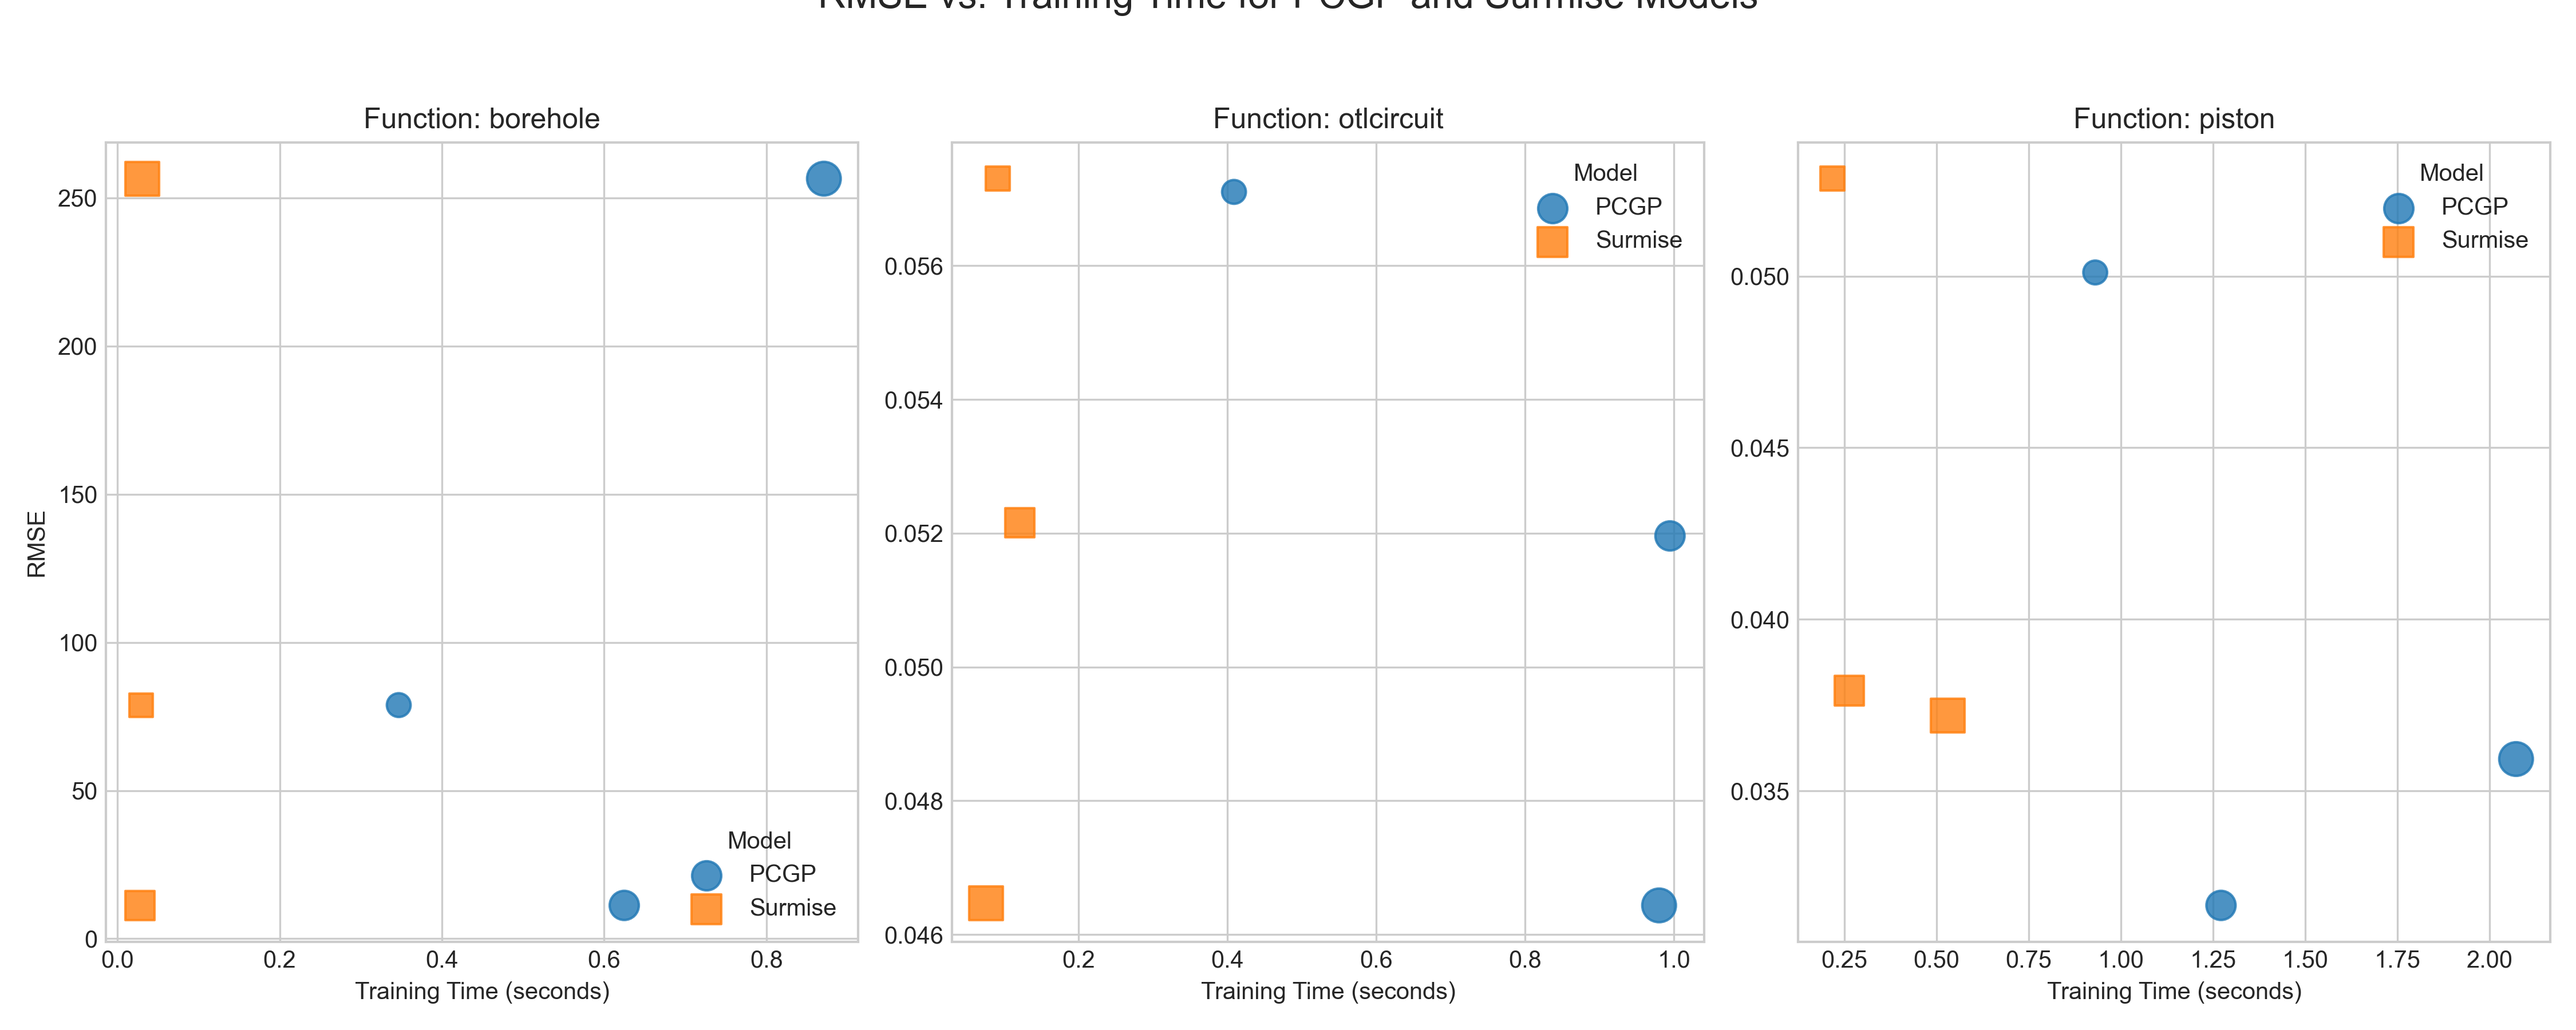
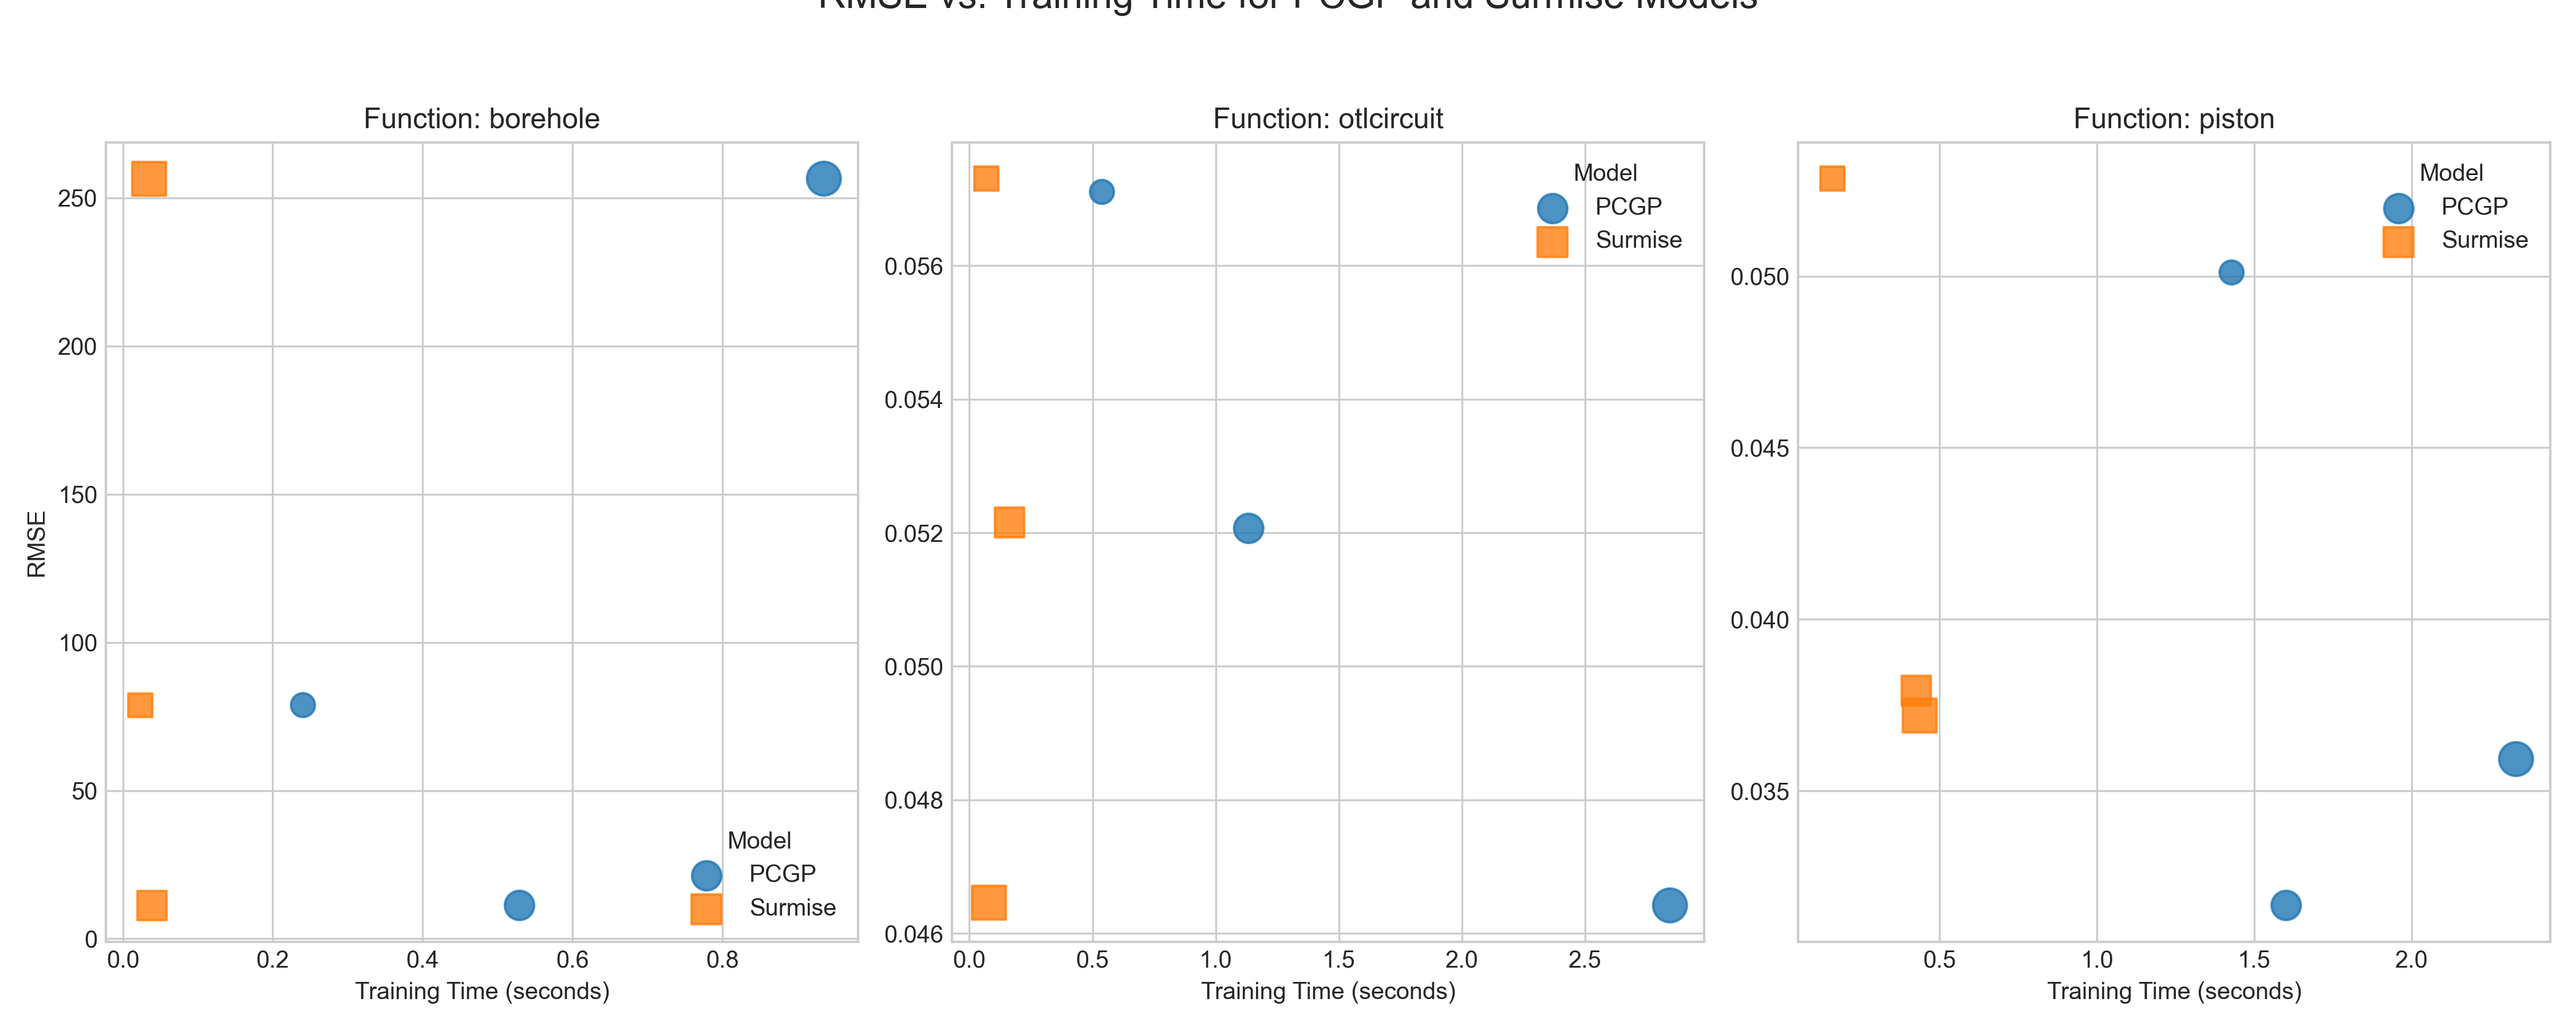
cache re-computations

diff --git a/PCGP_Model/PCGP_MODEL/core.py b/PCGP_Model/PCGP_MODEL/core.py
@@ -11,6 +11,8 @@ class PrincipalComponentGaussianProcessModel:
     This model combines Principal Component Analysis (PCA) with Gaussian Processes (GPs)
     to model high-dimensional outputs. PCA is used to reduce the dimensionality of the
     output space, and then individual GPs are trained on the principal component weights.
+    
+    Optimized version with matrix caching to prevent recomputation of expensive operations.
     """
     def __init__(self, n_components=9, input_dim=12, output_dim=28):
         """
@@ -38,6 +40,39 @@ class PrincipalComponentGaussianProcessModel:
         self.rho = np.ones((n_components, input_dim)) * 0.1
         self.lambda_w = np.ones(n_components) * 1.0
         self.noise_var = 1e-3
+        
+        # store matrices
+        self._stored_kernels = [None] * n_components  
+        self._stored_cholesky = [None] * n_components 
+        self._stored_sigma = [None] * n_components    
+        self._last_hyperparams = None  
+        
+    def _hyperparams_changed(self, rho_flattened, lambda_w, noise_var):
+        """Check if hyperparameters have changed since last computation."""
+        current_params = (tuple(rho_flattened), tuple(lambda_w), noise_var)
+        if self._last_hyperparams is None or self._last_hyperparams != current_params:
+            self._last_hyperparams = current_params
+            return True
+        return False
+    
+    def _compute_and_store_matrices(self):
+        """Compute and store all kernel matrices and Cholesky decompositions."""
+        n = self.X_train_std.shape[0]
+        X_train_tf = tf.convert_to_tensor(self.X_train_std, dtype=tf.float64)
+        
+        for k in range(self.n_components):
+            variance = 1.0 / self.lambda_w[k]
+            rho = self.rho[k, :]
+            kernel = GaussianKernel(variance=variance, rho=rho, input_dim=self.input_dim)
+            K_k = kernel(X_train_tf, X_train_tf)
+            self._stored_kernels[k] = K_k
+            
+            Sigma_k = K_k + self.noise_var * tf.eye(n, dtype=tf.float64)
+            self._stored_sigma[k] = Sigma_k
+            
+            L_k = tf.linalg.cholesky(Sigma_k)
+            
+            self._stored_cholesky[k] = L_k
 
     def standardize_inputs(self, X, ranges):
         """
@@ -123,7 +158,7 @@ class PrincipalComponentGaussianProcessModel:
 
     def _build_kernel_matrix(self, X1, X2=None, component_idx=None):
         """
-        Builds a Gaussian Kernel covariance matrix for given input data.
+        Computes a Gaussian Kernel covariance matrix for given input data.
 
         Arguments:
             X1 (tf.Tensor or np.ndarray): The first set of input points. Shape (n1, input_dim).
@@ -157,7 +192,7 @@ class PrincipalComponentGaussianProcessModel:
 
     def _negative_log_marginal_likelihood(self, rho_flattened, lambda_w, noise_var):
         """
-        Calculate the negative log marginal likelihood for PCGP model using _build_kernel_matrix.
+        Calculate the negative log marginal likelihood for PCGP model using stored matrices.
 
         Args:
             rho_flattened (np.ndarray): Flattened array of length scales (n_components * input_dim)
@@ -167,22 +202,22 @@ class PrincipalComponentGaussianProcessModel:
         Returns:
             float: Negative log marginal likelihood value
         """
+        # Update hyperparameters and recompute matrices if they changed
         self.rho = np.reshape(rho_flattened, (self.n_components, self.input_dim))
         self.lambda_w = lambda_w
         self.noise_var = noise_var
+        
+        if self._hyperparams_changed(rho_flattened, lambda_w, noise_var):
+            self._compute_and_store_matrices()
 
-        m = self.output_dim 
-        n = self.X_train_std.shape[0] 
-        q = self.n_components
-
+        n = self.X_train_std.shape[0]
         total_nll = 0
 
         for k in range(self.n_components):
             w_k = tf.constant(self.weights[:, k:k+1], dtype=tf.float64)
-            K_k = self._build_kernel_matrix(self.X_train_std, component_idx=k)
-
-            Sigma_k = K_k + self.noise_var * tf.eye(n, dtype=tf.float64)
-            L_k = tf.linalg.cholesky(Sigma_k)
+            
+            # Use stored matrices
+            L_k = self._stored_cholesky[k]
 
             # term 1
             alpha_k = tf.linalg.cholesky_solve(L_k, w_k)
@@ -195,7 +230,6 @@ class PrincipalComponentGaussianProcessModel:
             constant = n * np.log(2.0 * np.pi)
 
             nll_k = 0.5 * (data_fit_k + log_det_k + constant)
-
             total_nll += nll_k
 
         return tf.cast(total_nll, dtype=tf.float64).numpy()
@@ -218,6 +252,8 @@ class PrincipalComponentGaussianProcessModel:
         self.X_train_std = self.standardize_inputs(X_train, ranges)
         self.Y_train_std = self._standardize_output(Y_train)
         self.weights, self.phi_basis = self.compute_principal_components(self.Y_train_std)
+        
+        self._last_hyperparams = None
         
         iteration_count = [0]
         
@@ -282,10 +318,9 @@ class PrincipalComponentGaussianProcessModel:
 
         return self
 
-
     def predict(self, X_new, ranges, return_std=False, debug=True):
         """
-        Makes predictions using the fitted PCGP model.
+        Makes predictions using the fitted PCGP model with stored matrices.
 
         Arguments:
             X_new (np.ndarray): The new input data for which to make predictions.
@@ -316,18 +351,15 @@ class PrincipalComponentGaussianProcessModel:
             w_k = tf.constant(self.weights[:, k:k+1], dtype=tf.float64)
             phi_k = tf.constant(self.phi_basis[:, k:k+1], dtype=tf.float64)
             
-            K_k = self._build_kernel_matrix(X_train_tf, component_idx=k)
+            L_k = self._stored_cholesky[k]
             k_star = self._build_kernel_matrix(X_new_tf, X_train_tf, component_idx=k)
-            k_star_star = self._build_kernel_matrix(X_new_tf, component_idx=k)
-            
-            Sigma_k = K_k + self.noise_var * tf.eye(n_train, dtype=tf.float64)
-            L_k = tf.linalg.cholesky(Sigma_k)
             
             alpha_k = tf.linalg.cholesky_solve(L_k, w_k)
             mu_k = tf.matmul(k_star, alpha_k)
             mu_g[:, k] = tf.squeeze(mu_k).numpy()
             
             if return_std:
+                k_star_star = self._build_kernel_matrix(X_new_tf, component_idx=k)
                 v_k = tf.linalg.cholesky_solve(L_k, tf.transpose(k_star))  
 
                 Cov_k = k_star_star - tf.matmul(k_star, v_k)
@@ -350,68 +382,3 @@ class PrincipalComponentGaussianProcessModel:
         std_y = np.sqrt(var_y)
         
         return mean_y, std_y
-
-    # def predict(self, X_new, ranges, return_std=False, debug=True):
-    #     """
-    #     Makes predictions using the fitted PCGP model with GPflow comparison at each component.
-    #     """
-    #     X_new_std = self.standardize_inputs(X_new, ranges)
-    #     X_new_tf = tf.convert_to_tensor(X_new_std, dtype=tf.float64)
-    #     X_train_tf = tf.convert_to_tensor(self.X_train_std, dtype=tf.float64)
-        
-    #     n_train = self.X_train_std.shape[0]
-    #     n_test = X_new_std.shape[0]
-        
-    #     mu_g = np.zeros((n_test, self.n_components))
- 
-    #     if return_std:
-    #         cov_g = np.zeros((n_test * self.n_components, n_test * self.n_components))
-        
-    #     for k in range(self.n_components):
-    #         w_k = tf.constant(self.weights[:, k:k+1], dtype=tf.float64)
-            
-    #         K_k = self._build_kernel_matrix(X_train_tf, component_idx=k)
-    #         k_star = self._build_kernel_matrix(X_new_tf, X_train_tf, component_idx=k)
-    #         k_star_star = self._build_kernel_matrix(X_new_tf, component_idx=k)
-            
-    #         Sigma_k = K_k + self.noise_var * tf.eye(n_train, dtype=tf.float64)
-    #         L_k = tf.linalg.cholesky(Sigma_k)
-            
-    #         alpha_k = tf.linalg.cholesky_solve(L_k, w_k)
-    #         mu_k = tf.matmul(k_star, alpha_k)
-    #         mu_g[:, k] = tf.squeeze(mu_k).numpy()
-            
-    #         if return_std:
-    #             v_k = tf.linalg.cholesky_solve(L_k, tf.transpose(k_star))  
-    #             Cov_k = k_star_star - tf.matmul(k_star, v_k)
-  
-    #             start_idx = k * n_test
-    #             end_idx = (k + 1) * n_test
-    #             cov_g[start_idx:end_idx, start_idx:end_idx] = Cov_k.numpy()
-        
-    #     phi_tf = tf.convert_to_tensor(self.phi_basis, dtype=tf.float64)
-    #     mu_y_std = tf.matmul(mu_g, phi_tf, transpose_b=True)
-    #     mean_y = self._unstandardize_output(mu_y_std.numpy())
-        
-    #     if not return_std:
-    #         return mean_y
-        
-    #     phi_together = np.zeros((n_test * self.output_dim, n_test * self.n_components))
-        
-    #     for i in range(n_test):
-    #         for j in range(self.n_components):
-    #             row_start = i * self.output_dim
-    #             row_end = (i + 1) * self.output_dim
-    #             col_idx = i * self.n_components + j
-                
-    #             phi_together[row_start:row_end, col_idx] = self.phi_basis[:, j]
-   
-    #     temp = np.dot(phi_together, cov_g)
-    #     cov_y_std = np.dot(temp, phi_together.T)
-    #     cov_y_std += self.noise_var * np.eye(n_test * self.output_dim)
-
-    #     var_y_std = np.diag(cov_y_std).reshape(n_test, self.output_dim)       
-    #     var_y = var_y_std * (self.standardization_scale ** 2)
-    #     std_y = np.sqrt(var_y)
-        
-    #     return mean_y, std_y

diff --git a/PCGP_Model/experiments/plot_numerical_experiments.py b/PCGP_Model/experiments/plot_numerical_experiments.py
@@ -23,7 +23,44 @@ def plot_numerical_results(results_filepath='experiments/output/numerical_result
     markers = {'PCGP': 'o', 'Surmise': 's'}
     colors = {'PCGP': 'tab:blue', 'Surmise': 'tab:orange'}
 
-    pass
+    n_cols = len(test_functions)
+    fig, axes = plt.subplots(1, n_cols, figsize=(5 * n_cols, 6), sharey=False, sharex=False)
+
+    if n_cols == 1:
+        axes = [axes]
+
+    for i, func in enumerate(test_functions):
+        ax = axes[i]
+        func_df = df[df['function'] == func]
+
+        for model in models:
+            model_df = func_df[func_df['model'] == model]
+            scatter = ax.scatter(
+                model_df['training_time'],
+                model_df['rmse'],
+                label=model,
+                marker=markers[model],
+                color=colors[model],
+                s=model_df['n_train'] / 100 * 50 + 50,
+                alpha=0.8
+            )
+
+        ax.set_title(f"Function: {func}")
+        ax.set_xlabel("Training Time (seconds)")
+        if i == 0:
+            ax.set_ylabel("RMSE")
+
+        ax.legend(title="Model")
+
+    fig.suptitle("RMSE vs. Training Time for PCGP and Surmise Models", y=1.02, fontsize=16)
+
+    plt.tight_layout(rect=[0, 0, 1, 0.98])
+
+    plot_filename = os.path.join(plot_output_dir, 'rmse_vs_training_time_matplotlib.png')
+    plt.savefig(plot_filename, dpi=300)
+    print(f"Plot saved to {plot_filename}")
+
+    plt.show()
 
 if __name__ == "__main__":
     results_file = 'experiments/output/numerical_results.csv'
